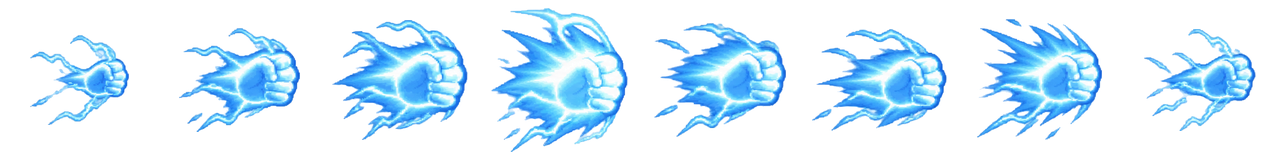
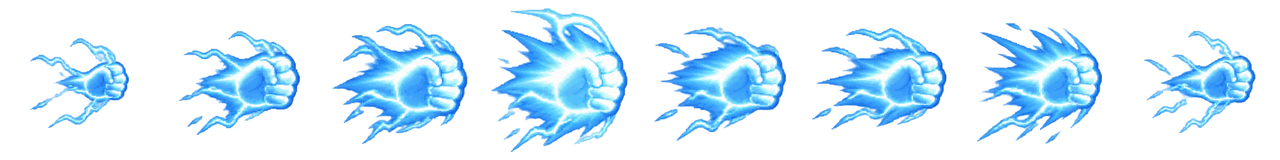
New painted energy effects: Minotaur, Vulcan, Chiron, Diana
- Minotaur Gore Charge, Vulcan Magma Hammer, Chiron Star Chart, Diana Emerald Arrow
- pack_effect.py now keeps each frame's original height (ground effects don't bounce);
  re-packed Marcus, Mars, Colossus and Medusa with the same alignment

Claude-Session: https://claude.ai/code/session_01T4Ncn1ihgTr1NAgQFywcZ6

diff --git a/fight/tools/pack_effect.py b/fight/tools/pack_effect.py
@@ -17,14 +17,17 @@ owner=np.zeros(n+1,int)
 for k,(c,s) in enumerate(zip(cents,sizes),1):
     # embers sit to the LEFT of their arc (trailing), so bias a little rightward
     owner[k]=int(np.argmin([abs(c[1]+(25 if s<2000 else 0)-x) for x in centers]))
-crops=[]
+crops=[]; boxes=[]
 for i in range(8):
     f=a.copy(); keep=np.isin(lab,np.where(owner==i)[0]); f[...,3]=np.where(keep,f[...,3],0)
-    fi=Image.fromarray(f); crops.append(fi.crop(fi.getbbox()))
+    fi=Image.fromarray(f); bb=fi.getbbox(); boxes.append(bb); crops.append(fi.crop(bb))
+# shared vertical band: every frame keeps its original height in the strip (ground effects don't bounce)
+top=min(b[1] for b in boxes); bot=max(b[3] for b in boxes)
 print('components',n,'widths',[c.width for c in crops])
-scale=144/max(max(c.size) for c in crops)
+scale=144/max(max(c.width for c in crops), bot-top)
 sheet=Image.new('RGBA',(1280,160),(0,0,0,0))
 for i,c in enumerate(crops):
     c=c.resize((max(1,round(c.width*scale)),max(1,round(c.height*scale))),Image.LANCZOS)
-    sheet.alpha_composite(c,(i*160+(160-c.width)//2,(160-c.height)//2))
+    y=round((160-(bot-top)*scale)/2+(boxes[i][1]-top)*scale)
+    sheet.alpha_composite(c,(i*160+(160-c.width)//2,max(0,min(160-c.height,y))))
 sheet.save(out); print(out,sheet.size,'scale %.3f'%scale)
